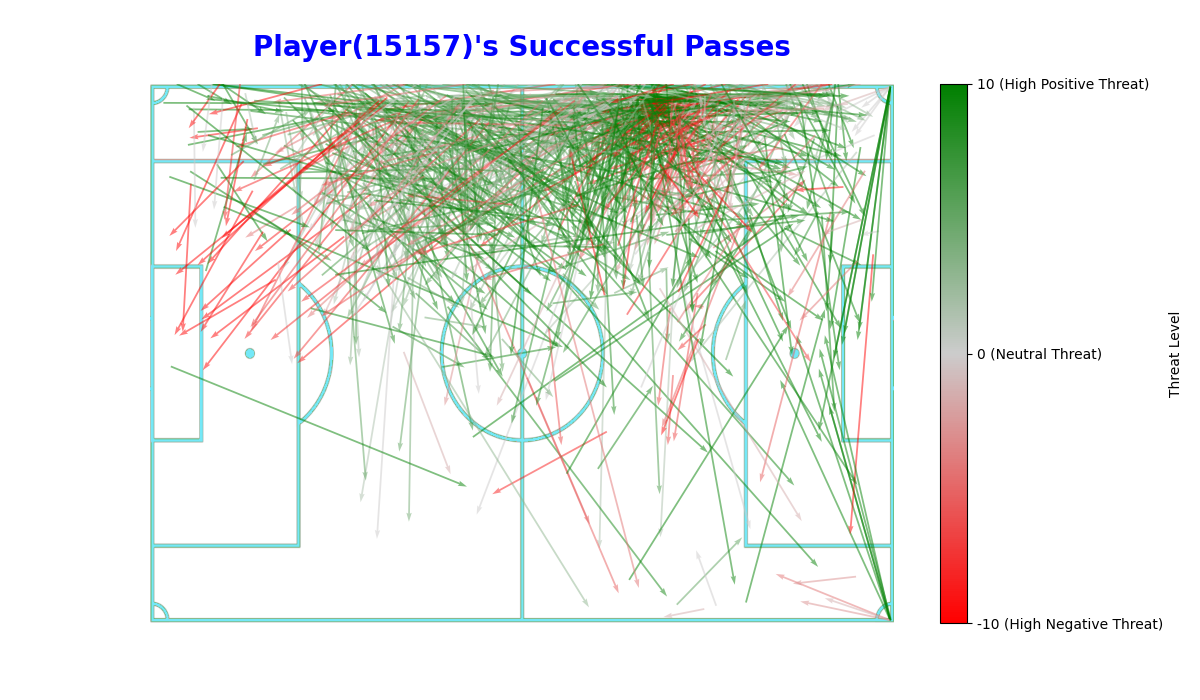
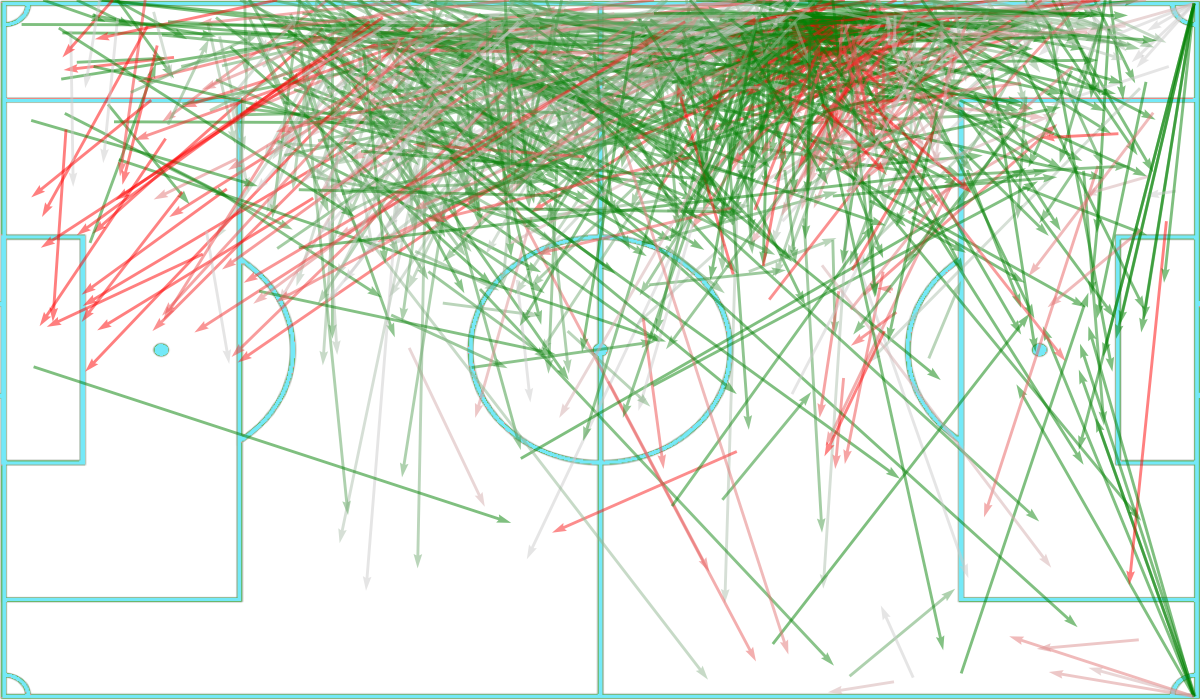
make figures transparent

diff --git a/templates/comparison2.html b/templates/comparison2.html
@@ -43,6 +43,7 @@
                             </div>
                             <div class="child-data-middle"> <!-- New middle child column -->
                                 <p>These graphics show a players successful passes and their threat level</p>
+                                <img src="{{ url_for('static', filename='images/color_key.png') }}" alt="successful Passing Map" class="inline-image" onError="this.onerror=null;this.src='/static/images/noimage.gif';">
                             </div>
                             <div class="child-data-right">
                                 <img src="{{ url_for('static', filename='images/successful_passes/' + player2 + '.png') }}" alt="successful Passing Map" class="inline-image" onError="this.onerror=null;this.src='/static/images/noimage.gif';">
@@ -62,6 +63,7 @@
                             </div>
                             <div class="child-data-middle"> <!-- New middle child column -->
                                 <p>These graphics show a players unsuccessful passes and their threat level</p>
+                                <img src="{{ url_for('static', filename='images/color_key.png') }}" alt="successful Passing Map" class="inline-image" onError="this.onerror=null;this.src='/static/images/noimage.gif';">
                             </div>
                             <div class="child-data-right">
                                 <img src="{{ url_for('static', filename='images/unsuccessful_passes/' + player2 + '.png') }}" alt="successful Passing Map" class="inline-image" onError="this.onerror=null;this.src='/static/images/noimage.gif';">
@@ -120,6 +122,7 @@
             $('#loader').show();
             $('.form-container').hide();
             $('.table-container').hide(); // Hide .table-container and its children
+            $('.footer').hide();
         });
 
         $('.title').each(function () {

diff --git a/passingmapPNG.py b/passingmapPNG.py
@@ -91,6 +91,7 @@ def generate_player_plot(player_id, success, postgreSQL_pool):
     cmap = cm
 
     fig, ax = plt.subplots(figsize=(12, 7))
+    plt.subplots_adjust(left=0, right=1, top=1, bottom=0)
     #fig.patch.set_facecolor('xkcd:light grey')
 
     # Load the pitch image
@@ -105,18 +106,26 @@ def generate_player_plot(player_id, success, postgreSQL_pool):
     ax.axis('off')
 
 
-    if (success == 1):
+    '''if (success == 1):
         ax.set_title(f"Player({player_id})'s Successful Passes", fontsize=20, color='blue', fontweight='bold', pad=20)
     else:
-        ax.set_title(f"Player({player_id})'s Unsuccessful Passes", fontsize=20, color='blue', fontweight='bold', pad=20)
+        ax.set_title(f"Player({player_id})'s Unsuccessful Passes", fontsize=20, color='blue', fontweight='bold', pad=20)'''
     ax.set_xlabel("Pitch X", fontsize=12, fontweight='bold')
     ax.set_ylabel("Pitch Y", fontsize=12, fontweight='bold')
 
-    cax, _ = matplotlib.colorbar.make_axes(ax)
-    cbar = matplotlib.colorbar.ColorbarBase(cax, cmap=cmap, norm=matplotlib.colors.Normalize(vmin=-10, vmax=10))
-    cbar.set_ticks([-10, 0, 10])
-    cbar.set_ticklabels(['-10 (High Negative Threat)', '0 (Neutral Threat)', '10 (High Positive Threat)'])
-    cbar.set_label('Threat Level')
+    def save_color_key_image(cmap):
+        fig, ax = plt.subplots(figsize=(1, 4))
+        cax, _ = matplotlib.colorbar.make_axes(ax)
+        cbar = matplotlib.colorbar.ColorbarBase(cax, cmap=cmap, norm=matplotlib.colors.Normalize(vmin=-10, vmax=10))
+        cbar.set_ticks([-10, 0, 10])
+        cbar.set_ticklabels(['-10 (High Negative Threat)', '0 (Neutral Threat)', '10 (High Positive Threat)'])
+
+        ax.axis('off')
+        fig.savefig('static/images/color_key.png', bbox_inches='tight', transparent=True)
+        plt.close(fig)
+
+    # Call the function to save the color key image
+    save_color_key_image(cm)
 
     for spine in ax.spines.values():
         spine.set_visible(False)
@@ -125,9 +134,9 @@ def generate_player_plot(player_id, success, postgreSQL_pool):
     fig1 = plt.gcf()
     #plt.show()
     if (success == 1):
-        fig1.savefig(f'static/images/successful_passes/{player_id}.png')
+        fig1.savefig(f'static/images/successful_passes/{player_id}.png', transparent = True)
     if (success == 0):
-        fig1.savefig(f'static/images/unsuccessful_passes/{player_id}.png')
+        fig1.savefig(f'static/images/unsuccessful_passes/{player_id}.png', transparent = True)
 
 # To generate a plot for a specific player:
 # generate_player_plot(28468)
